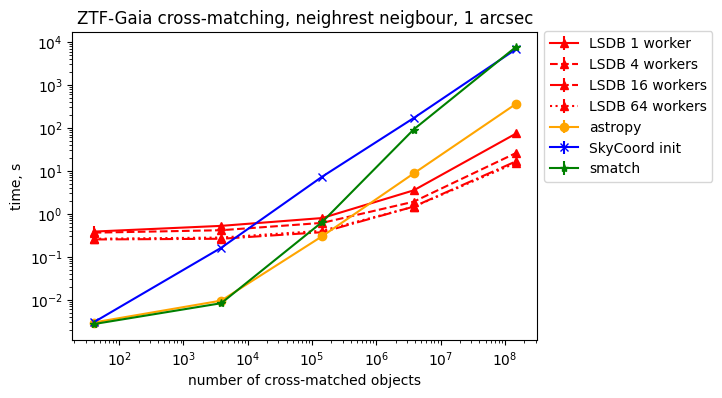
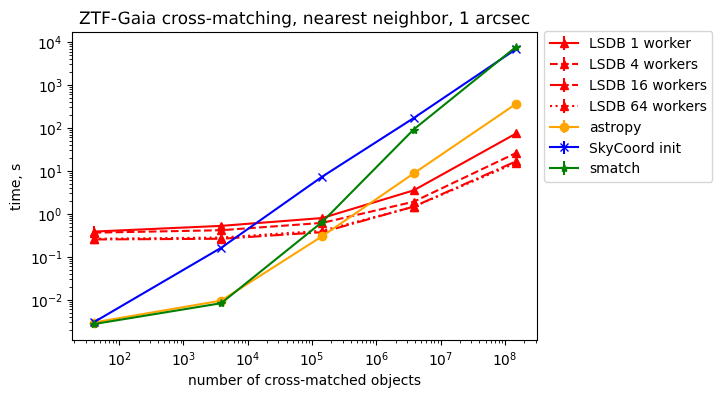
Grammar/clarity; update plot title

Changed region(s): [[0.0914, 0.0302, 0.7313, 0.0905]]

diff --git a/docs/tutorials/performance.rst b/docs/tutorials/performance.rst
@@ -3,14 +3,14 @@ Performance
 
 LSDB is a high-performance package built to support the analysis of large-scale astronomical datasets.
 One of the performance goals of LSDB is to add as little overhead over the input-output operations as possible.
-We achieve this aim for catalog cross-matching, spatial and data filtering operations by using
+We achieve this for catalog cross-matching and spatial- and data-filtering operations by using
 the `HATS <https://github.com/astronomy-commons/hats>`_ data format,
 efficient algorithms,
 and `Dask <https://dask.org/>`_ framework for parallel computing.
 
-Here we demonstrate the results of the performance tests of LSDB for cross-matching operations,
-performed on `Bridges2 cluster at Pittsburgh Supercomputing Center <https://www.psc.edu/resources/bridges-2/>`_ 
-using a asingle node with 128 cores and 256 GB of memory.
+Here, we demonstrate the results of LSDB performance tests for cross-matching operations,
+performed on the `Bridges2 cluster at Pittsburgh Supercomputing Center <https://www.psc.edu/resources/bridges-2/>`_ 
+using a single node with 128 cores and 256 GB of memory.
 
 Cross-matching performance overhead
 -----------------------------------
@@ -18,11 +18,13 @@ Cross-matching performance overhead
 We compare I/O speed and cross-matching performance of LSDB on an example cross-matching of
 ZTF DR14 (metadata only, 1.2B rows, 60GB)
 and Gaia DR3 (1.8B rows, 972GB) catalogs.
-The cross-matching took 46 minutes and produced a catalog of 498GB.
-LSDB would read more data than it would write, so to get a lower boundary estimate we would use the output size, which gives us 185MB/s of the cross-matching speed.
 
-We compare it to just copying both catalogs with ``cp -r`` command, which took 86 minutes and produced 1030GB of data,
-which corresponds to 204MB/s of the copy speed.
+The cross-matching took 46 minutes and produced a catalog of 498GB.
+LSDB would read more data than it would write in this case, so to get a lower boundary estimate, we use the output size, which gives us 185MB/s as the cross-matching speed.
+
+We compare this to just copying both catalogs with ``cp -r`` command, which took 86 minutes and produced 1030GB of data,
+which corresponds to 204MB/s as the copy speed.
+
 These allow us to conclude that LSDB cross-matching overhead is 5-15% compared to the I/O operations.
 
 The details of this analysis are given in
@@ -65,13 +67,13 @@ The results of the analysis are shown in the following plot:
 
 Some observations from the plot:
 
-* Construction of the ``SkyCoord`` objects in astropy is the most time-consuming step; in this step spherical coordinates are converted to Cartesian, so ``match_coordinates_sky()`` has less work to do comparing to other algorithms. So if your analysis doesn't require the ``SkyCoord`` objects anywhere else, it would be more fair to add up the time of the ``SkyCoord`` objects construction and the ``match_coordinates_sky()`` execution.
+* Construction of the ``SkyCoord`` objects in astropy is the most time-consuming step; in this step, spherical coordinates are converted to Cartesian, so ``match_coordinates_sky()`` has less work to do compared to other algorithms. So if your analysis doesn't require the ``SkyCoord`` objects anywhere else, it would be more fair to add up the time of the ``SkyCoord`` objects construction and the ``match_coordinates_sky()`` execution.
 * All algorithms but LSDB have a nearly linear dependency on the number of rows in the input catalogs starting from a small number of rows. LSDB has a constant overhead associated with the graph construction and Dask overhead, which is negligible for large catalogs, where the time starts to grow linearly.
-* LSDB is the only method allowing to parallelize the cross-matching operation, so we run it with 1, 4, 16, and 64 workers.
-* 16 and 64-worker cases show the same performance, which shows the limits of the parallelization, at least with the hardware setup used in the analysis.
+* LSDB is the only method allowing users to parallelize the cross-matching operation, so we run it with 1, 4, 16, and 64 workers.
+* 16 and 64-worker cases show the same performance, which demonstrates the limits of the parallelization, at least with the hardware setup used in the analysis.
 * Despite the fact that LSDB's crossmatching algorithm does similar work converting spherical coordinates to Cartesian, it's getting faster than astropy's algorithm for larger catalogs, even with a single worker. This is probably due to the fact that LSDB utilises a batching approach, which constructs shallower k-D trees for each partition of the data, and thus less time is spent on the tree traversal.
 
 Summarizing, the cross-matching approach implemented in LSDB is competitive with the existing tools and is more efficient for large catalogs, starting with roughly one million rows.
-Also, LSDB allows work with out-of-memory datasets, which is not possible with astropy and smatch, and not demonstrated in the analysis.
+Also, LSDB enables the use of out-of-memory datasets, which is not possible with astropy and smatch, and not demonstrated in the analysis.
 
 The complete code of the analysis is available `here <https://github.com/lincc-frameworks/notebooks_lf/tree/main/sprints/2024/05_30/xmatch_bench>`_.
